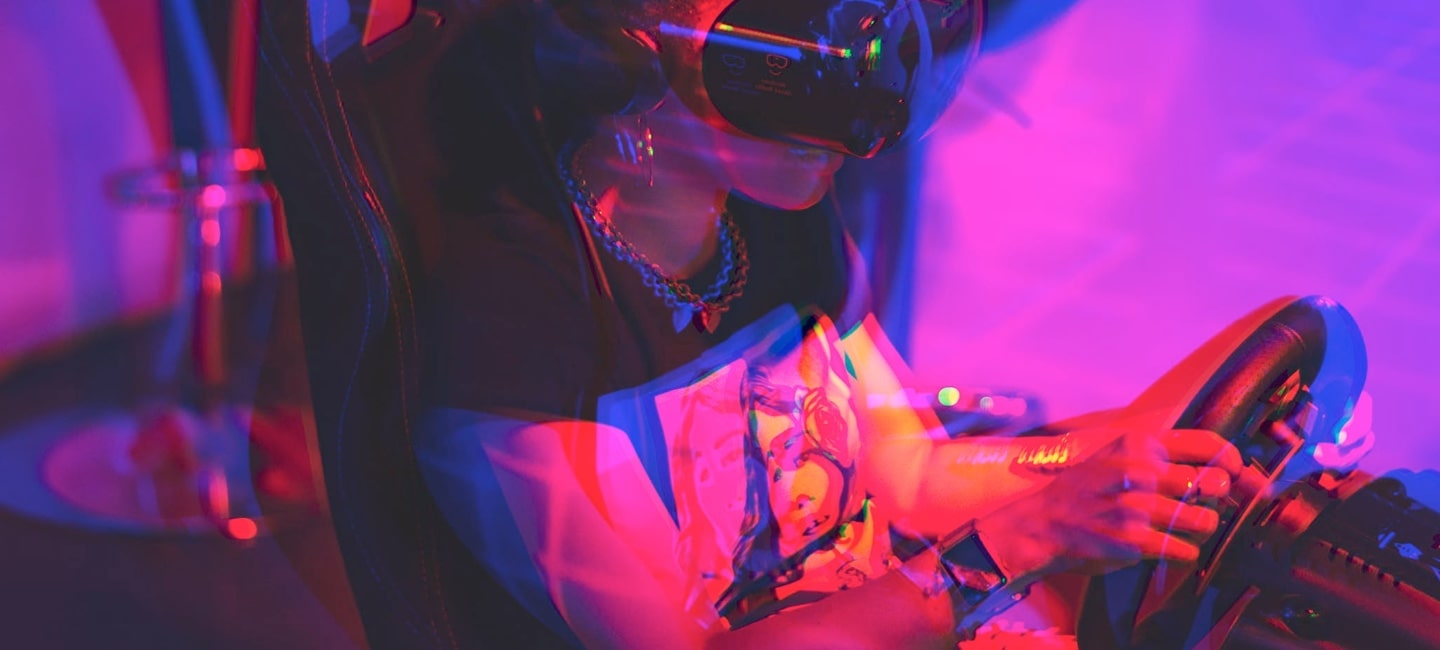
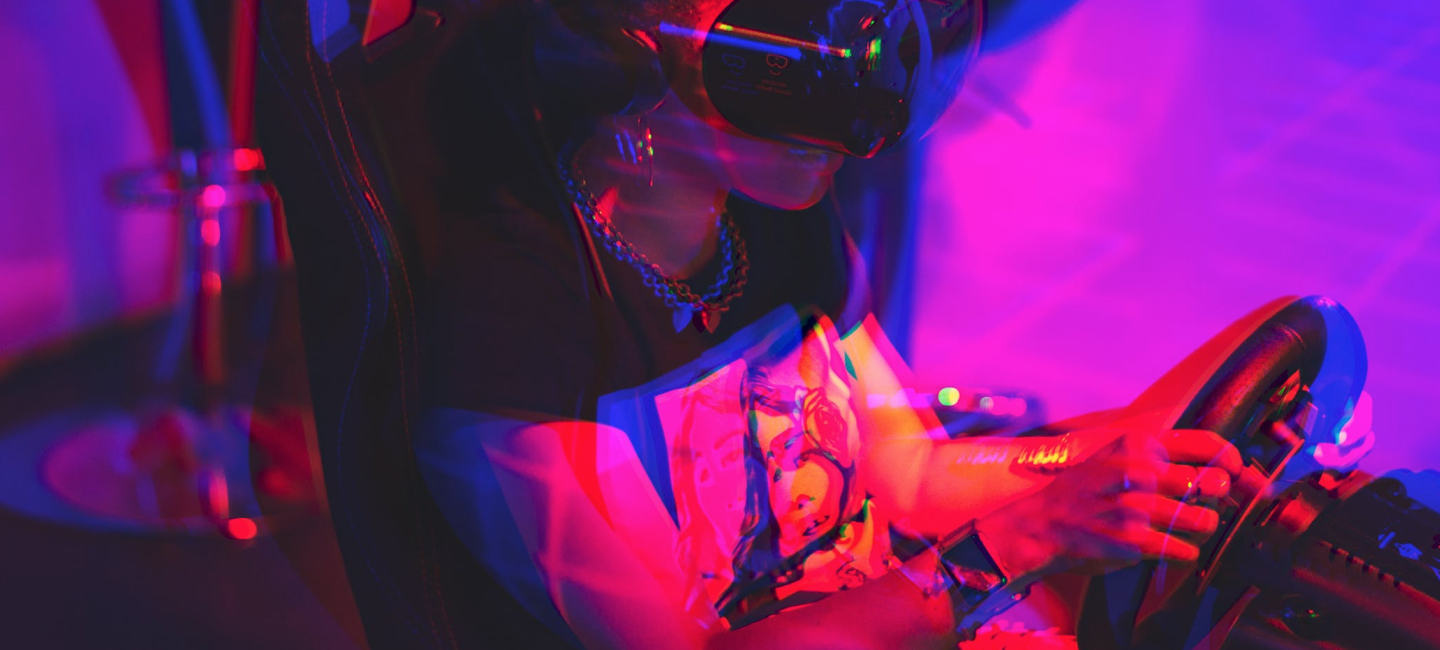
Style hero section and add mobile navigation menu

diff --git a/loopstudios-landing-page/src/index.html b/loopstudios-landing-page/src/index.html
@@ -25,22 +25,133 @@
     />
   </head>
   <body>
-    <header>
-      <nav>
-        <img src="./assets/images/logo.svg" alt="Loopstudios logo" />
-        <ul>
-          <li><a href="#">About</a></li>
-          <li><a href="#">Careers</a></li>
-          <li><a href="#">Events</a></li>
-          <li><a href="#">Products</a></li>
-          <li><a href="#">Support</a></li>
+    <header
+      class="absolute isolate mt-16 flex w-full justify-between px-6 font-body text-white lg:px-[164px]"
+    >
+      <nav
+        id="mobile-menu"
+        class="fixed top-0 left-0 hidden h-full w-full bg-black"
+      >
+        <ul
+          class="absolute inset-0 my-auto flex h-fit w-full flex-col gap-6 px-6 lg:px-[164px]"
+        >
+          <li class="group w-fit cursor-pointer">
+            <a
+              class="font-heading text-2xl font-light uppercase leading-6 after:mx-auto after:mt-2 after:block after:h-[2px] after:w-full after:bg-white after:opacity-0 after:transition-opacity after:group-hover:opacity-100"
+              href="#"
+              >About</a
+            >
+          </li>
+          <li class="group w-fit cursor-pointer">
+            <a
+              class="font-heading text-2xl font-light uppercase leading-6 after:mx-auto after:mt-2 after:block after:h-[2px] after:w-full after:bg-white after:opacity-0 after:transition-opacity after:group-hover:opacity-100"
+              href="#"
+              >Careers</a
+            >
+          </li>
+          <li class="group w-fit cursor-pointer">
+            <a
+              class="font-heading text-2xl font-light uppercase leading-6 after:mx-auto after:mt-2 after:block after:h-[2px] after:w-full after:bg-white after:opacity-0 after:transition-opacity after:group-hover:opacity-100"
+              href="#"
+              >Events</a
+            >
+          </li>
+          <li class="group w-fit cursor-pointer">
+            <a
+              class="font-heading text-2xl font-light uppercase leading-6 after:mx-auto after:mt-2 after:block after:h-[2px] after:w-full after:bg-white after:opacity-0 after:transition-opacity after:group-hover:opacity-100"
+              href="#"
+              >Products</a
+            >
+          </li>
+          <li class="group w-fit cursor-pointer">
+            <a
+              class="font-heading text-2xl font-light uppercase leading-6 after:mx-auto after:mt-2 after:block after:h-[2px] after:w-full after:bg-white after:opacity-0 after:transition-opacity after:group-hover:opacity-100"
+              href="#"
+              >Support</a
+            >
+          </li>
+        </ul>
+      </nav>
+      <div class="isolate z-10 flex w-full items-center justify-between">
+        <a href="#">
+          <img src="./assets/images/logo.svg" alt="Loopstudios logo" />
+        </a>
+        <button id="menu" class="flex h-5 w-7 justify-center md:hidden">
+          <svg
+            id="open"
+            width="24"
+            height="16"
+            xmlns="http://www.w3.org/2000/svg"
+          >
+            <g fill="#FFF" fill-rule="evenodd">
+              <path d="M0 0h24v2H0zM0 7h24v2H0zM0 14h24v2H0z" />
+            </g>
+          </svg>
+          <svg
+            id="close"
+            class="hidden"
+            width="20"
+            height="20"
+            xmlns="http://www.w3.org/2000/svg"
+          >
+            <path
+              d="M17.778.808l1.414 1.414L11.414 10l7.778 7.778-1.414 1.414L10 11.414l-7.778 7.778-1.414-1.414L8.586 10 .808 2.222 2.222.808 10 8.586 17.778.808z"
+              fill="#FFF"
+              fill-rule="evenodd"
+            />
+          </svg>
+        </button>
+      </div>
+      <nav class="hidden md:block">
+        <ul class="#min-[980px]:invisible flex gap-8">
+          <li class="group cursor-pointer">
+            <a
+              class="border-white after:mx-auto after:mt-2 after:block after:h-[2px] after:w-6 after:bg-white after:opacity-0 after:transition-opacity after:group-hover:opacity-100"
+              href="#"
+              >About</a
+            >
+          </li>
+          <li class="group cursor-pointer">
+            <a
+              class="border-white after:mx-auto after:mt-2 after:block after:h-[2px] after:w-6 after:bg-white after:opacity-0 after:transition-opacity after:group-hover:opacity-100"
+              href="#"
+              >Careers</a
+            >
+          </li>
+          <li class="group cursor-pointer">
+            <a
+              class="border-white after:mx-auto after:mt-2 after:block after:h-[2px] after:w-6 after:bg-white after:opacity-0 after:transition-opacity after:group-hover:opacity-100"
+              href="#"
+              >Events</a
+            >
+          </li>
+          <li class="group cursor-pointer">
+            <a
+              class="border-white after:mx-auto after:mt-2 after:block after:h-[2px] after:w-6 after:bg-white after:opacity-0 after:transition-opacity after:group-hover:opacity-100"
+              href="#"
+              >Products</a
+            >
+          </li>
+          <li class="group cursor-pointer">
+            <a
+              class="border-white after:mx-auto after:mt-2 after:block after:h-[2px] after:w-6 after:bg-white after:opacity-0 after:transition-opacity after:group-hover:opacity-100"
+              href="#"
+              >Support</a
+            >
+          </li>
         </ul>
       </nav>
     </header>
 
     <main>
-      <section>
-        <h1>Immersive experiences that deliver</h1>
+      <section
+        class="flex min-h-[650px] flex-col justify-center bg-black/40 bg-hero-image-mobile bg-cover bg-no-repeat px-6 bg-blend-darken md:bg-hero-image-desktop md:bg-center lg:px-[164px]"
+      >
+        <h1
+          class="border-2 border-white px-6 pt-6 pb-3 font-heading text-[40px] font-light uppercase leading-[38px] text-white sm:px-9 sm:pt-10 sm:pb-6 sm:text-6xl md:max-w-[40rem]"
+        >
+          Immersive experiences that deliver
+        </h1>
       </section>
 
       <section>
@@ -115,5 +226,18 @@
         <small>© 2021 Loopstudios. All rights reserved.</small>
       </div>
     </footer>
+    <script>
+      const menu = document.getElementById("menu");
+      const mobileMenu = document.getElementById("mobile-menu");
+      const openSvg = document.getElementById("close");
+      const closeSvg = document.getElementById("open");
+
+      menu.addEventListener("click", () => {
+        mobileMenu.classList.toggle("hidden");
+        openSvg.classList.toggle("hidden");
+        closeSvg.classList.toggle("hidden");
+        document.body.classList.toggle("overflow-hidden");
+      });
+    </script>
   </body>
 </html>
